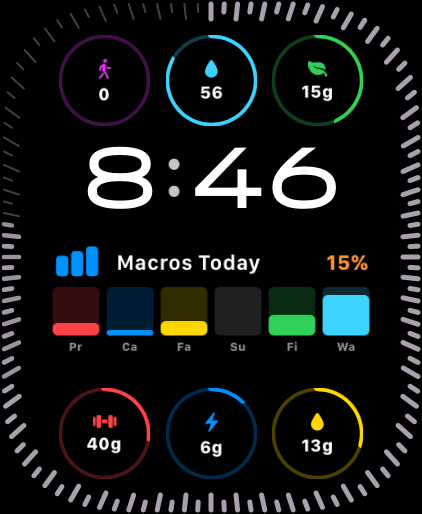
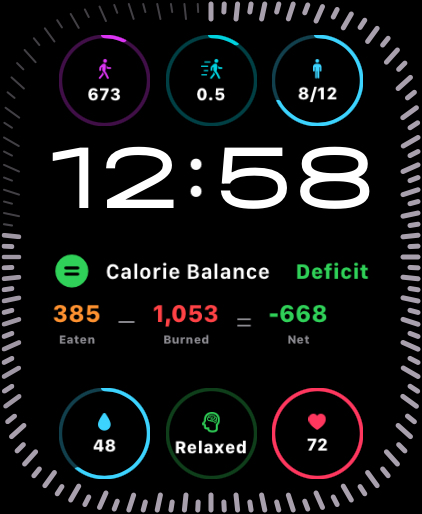
Updated for version 1.2.0

diff --git a/index.html b/index.html
@@ -244,6 +244,7 @@
           >
           <a href="#pro-features" class="hover:text-blue-600 transition">Pro</a>
           <a href="#social" class="hover:text-blue-600 transition">Friends</a>
+          <a href="#health" class="hover:text-blue-600 transition">Health</a>
           <a href="#pricing" class="hover:text-blue-600 transition">Pricing</a>
           <a
             href="https://macroit.fit/support.html"
@@ -284,7 +285,7 @@
           <p class="text-xl text-gray-600 mb-8 leading-relaxed">
             MacroIt uses AI-powered food detection, barcode scanning, and Apple
             Watch sync to make nutrition tracking effortless. Now with friends,
-            leaderboard, meal planner, achievements, and more.
+            in-app chat, health metrics, meal planner, achievements, and more.
           </p>
           <div class="flex flex-col sm:flex-row gap-4 justify-center mb-6">
             <a
@@ -465,7 +466,7 @@
       </div>
     </section>
 
-    <!-- Achievements Section (NEW) -->
+    <!-- Achievements Section -->
     <section id="achievements" class="py-20 achievement-section">
       <div class="max-w-6xl mx-auto px-4">
         <div class="text-center mb-14">
@@ -551,17 +552,18 @@
     <section id="social" class="py-20 bg-white">
       <div class="max-w-6xl mx-auto px-4">
         <div class="text-center mb-14">
-          <span class="pill bg-blue-100 text-blue-700 mb-4">👥 NEW IN 1.1</span>
+          <span class="pill bg-blue-100 text-blue-700 mb-4">👥 SOCIAL</span>
           <h2 class="text-3xl md:text-4xl font-bold text-gray-900 mt-4 mb-4">
             Compete with friends. Stay accountable.
           </h2>
           <p class="text-lg text-gray-600 max-w-2xl mx-auto">
-            Share your progress, compare streaks, and nudge each other to stay
-            on track. A mini community right inside MacroIt — completely free.
+            Share your progress, compare streaks, chat with friends, and nudge
+            each other to stay on track. A mini community right inside MacroIt —
+            completely free.
           </p>
         </div>
 
-        <div class="grid md:grid-cols-3 gap-6 max-w-4xl mx-auto mb-12">
+        <div class="grid md:grid-cols-2 gap-6 max-w-4xl mx-auto mb-12">
           <div class="feature-card text-center">
             <div class="text-3xl mb-3">🏆</div>
             <h3 class="font-bold mb-1">Leaderboard</h3>
@@ -584,6 +586,15 @@
             <p class="text-sm text-gray-500">
               See when friends reach new titles, hit point milestones, or build
               impressive logging streaks.
+            </p>
+          </div>
+          <div class="feature-card text-center">
+            <div class="text-3xl mb-3">💬</div>
+            <h3 class="font-bold mb-1">In-App Chat</h3>
+            <p class="text-sm text-gray-500">
+              Message your friends directly inside MacroIt. Share tips,
+              celebrate wins, and keep each other motivated. Messages
+              auto-expire after 30 days.
             </p>
           </div>
         </div>
@@ -657,7 +668,7 @@
           </p>
         </div>
 
-        <div class="grid md:grid-cols-3 gap-6">
+        <div class="grid md:grid-cols-2 gap-6">
           <div class="pro-card">
             <div class="text-2xl mb-3">✨</div>
             <h3 class="font-bold text-lg mb-2">AI Meal Suggestions</h3>
@@ -748,6 +759,59 @@
               library. Free users get 3, Pro gets unlimited.
             </p>
           </div>
+        </div>
+      </div>
+    </section>
+
+    <!-- Health Metrics Section -->
+    <section id="health" class="py-20 bg-gray-50">
+      <div class="max-w-6xl mx-auto px-4">
+        <div class="text-center mb-14">
+          <span class="pill bg-pink-100 text-pink-700 mb-4">❤ NEW IN 1.2</span>
+          <h2 class="text-3xl md:text-4xl font-bold text-gray-900 mt-4 mb-4">
+            Your health, at a glance.
+          </h2>
+          <p class="text-lg text-gray-600 max-w-2xl mx-auto">
+            Track key health metrics from your Apple Watch right inside MacroIt.
+            See trends, monitor vitals, and stay informed about your body.
+          </p>
+        </div>
+
+        <div class="grid md:grid-cols-4 gap-6 max-w-4xl mx-auto">
+          <div class="feature-card text-center">
+            <div class="text-3xl mb-3">❤</div>
+            <h3 class="font-bold mb-1">Heart Rate</h3>
+            <p class="text-sm text-gray-500">
+              Current and resting BPM with HRV tracking
+            </p>
+          </div>
+          <div class="feature-card text-center">
+            <div class="text-3xl mb-3">🫁</div>
+            <h3 class="font-bold mb-1">Blood Oxygen</h3>
+            <p class="text-sm text-gray-500">
+              SpO₂ readings synced from Apple Watch
+            </p>
+          </div>
+          <div class="feature-card text-center">
+            <div class="text-3xl mb-3">🌬</div>
+            <h3 class="font-bold mb-1">Respiratory Rate</h3>
+            <p class="text-sm text-gray-500">
+              Breathing rate tracked during sleep
+            </p>
+          </div>
+          <div class="feature-card text-center">
+            <div class="text-3xl mb-3">🏃</div>
+            <h3 class="font-bold mb-1">VO2 Max</h3>
+            <p class="text-sm text-gray-500">
+              Cardio fitness score for overall health
+            </p>
+          </div>
+        </div>
+
+        <div class="text-center mt-8">
+          <p class="text-sm text-gray-400">
+            Requires Apple Watch Series 6 or later for Blood Oxygen
+          </p>
         </div>
       </div>
     </section>
@@ -846,7 +910,7 @@
               <li>✓ 10 AI scans/month</li>
               <li>✓ 3 meal presets</li>
               <li>✓ Meal Planner (tomorrow)</li>
-              <li>✓ Friends & Leaderboard</li>
+              <li>✓ Friends, Chat & Leaderboard</li>
             </ul>
             <a
               href="https://apps.apple.com/app/id6781807960"
@@ -885,7 +949,7 @@
               <li>✓ Data Export (CSV)</li>
               <li>✓ Unlimited Meal Presets</li>
               <li>✓ Meal Planner + AI Auto-Plan</li>
-              <li>✓ Friends & Leaderboard</li>
+              <li>✓ Friends, Chat & Leaderboard</li>
               <li>✓ Priority support</li>
             </ul>
             <a
